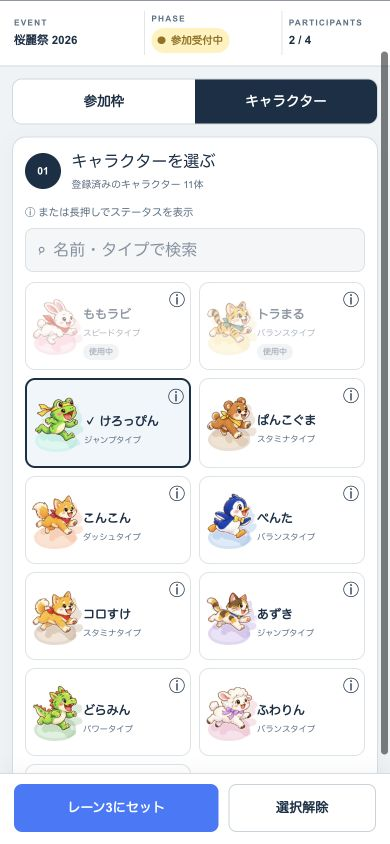
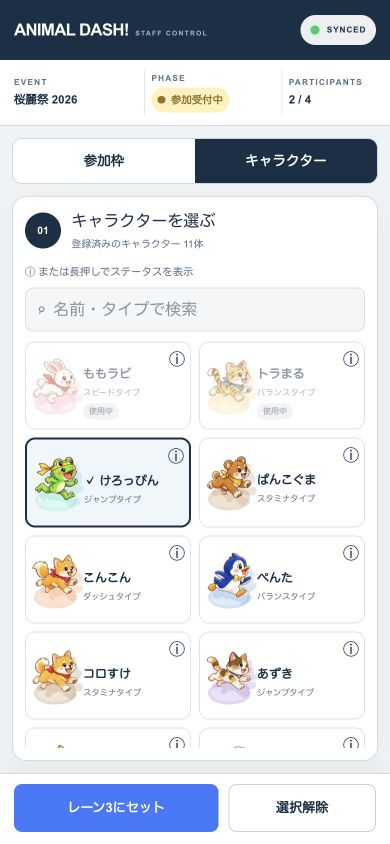
キャラクター一覧だけをスクロールしてヘッダーと操作欄を固定

diff --git a/app/styles/admin-mobile.css b/app/styles/admin-mobile.css
@@ -98,6 +98,17 @@
   .mobile-library .search-box { width: 100%; height: 44px; margin-bottom: 10px; }
   .mobile-library .search-box input { font-size: 16px; }
   .mobile-character-grid { display: grid; grid-template-columns: repeat(2, minmax(0, 1fr)); gap: 8px; }
+  .admin-shell:has(> .mobile-admin-workspace.is-character-view) { height: 100dvh; display: flex; flex-direction: column; overflow: hidden; }
+  .admin-shell:has(> .mobile-admin-workspace.is-character-view) > .admin-header,
+  .admin-shell:has(> .mobile-admin-workspace.is-character-view) > .admin-statusbar { flex-shrink: 0; }
+  .mobile-admin-workspace.is-character-view { display: flex; flex-direction: column; flex: 1; min-height: 0; padding-bottom: 0; }
+  .is-character-view .mobile-admin-tabs,
+  .is-character-view .mobile-panel-heading,
+  .is-character-view .mobile-info-hint,
+  .is-character-view .search-box { flex-shrink: 0; }
+  .is-character-view .mobile-library { display: flex; flex-direction: column; flex: 1; min-height: 0; }
+  .is-character-view .mobile-character-grid { flex: 1; min-height: 0; overflow-y: auto; overscroll-behavior-y: contain; align-content: start; grid-auto-rows: max-content; }
+  .is-character-view .mobile-character-dock { position: static; flex-shrink: 0; margin: 12px -12px 0; }
   .mobile-character-card { position: relative; min-width: 0; border: 1px solid #dbe4e9; border-radius: 10px; background: white; overflow: hidden; }
   .mobile-character-card.is-selected { border: 2px solid var(--ink); background: #eff6fb; }
   .mobile-character-main { display: flex; align-items: center; gap: 4px; width: 100%; min-height: 86px; padding: 8px 5px; border: 0; background: transparent; text-align: left; touch-action: pan-y; user-select: none; -webkit-touch-callout: none; }

diff --git a/app/features/admin/components/MobileAdminWorkspace.jsx b/app/features/admin/components/MobileAdminWorkspace.jsx
@@ -79,7 +79,7 @@ export function MobileAdminWorkspace({ session, selection, actions, canLogout, o
   const requestConfirmation = (callback) => { setOperationsOpen(false); callback(); };
   const info = infoId ? getCharacter(infoId) : null;
 
-  return <div ref={workspaceRef} className="mobile-admin-workspace">
+  return <div ref={workspaceRef} className={`mobile-admin-workspace ${tab === "characters" ? "is-character-view" : ""}`}>
     <nav className="mobile-admin-tabs" aria-label="管理画面の表示">
       <button type="button" aria-current={tab === "lanes" ? "page" : undefined} onClick={() => changeTab("lanes")}>参加枠</button>
       <button type="button" aria-current={tab === "characters" ? "page" : undefined} onClick={() => changeTab("characters")}>キャラクター</button>
